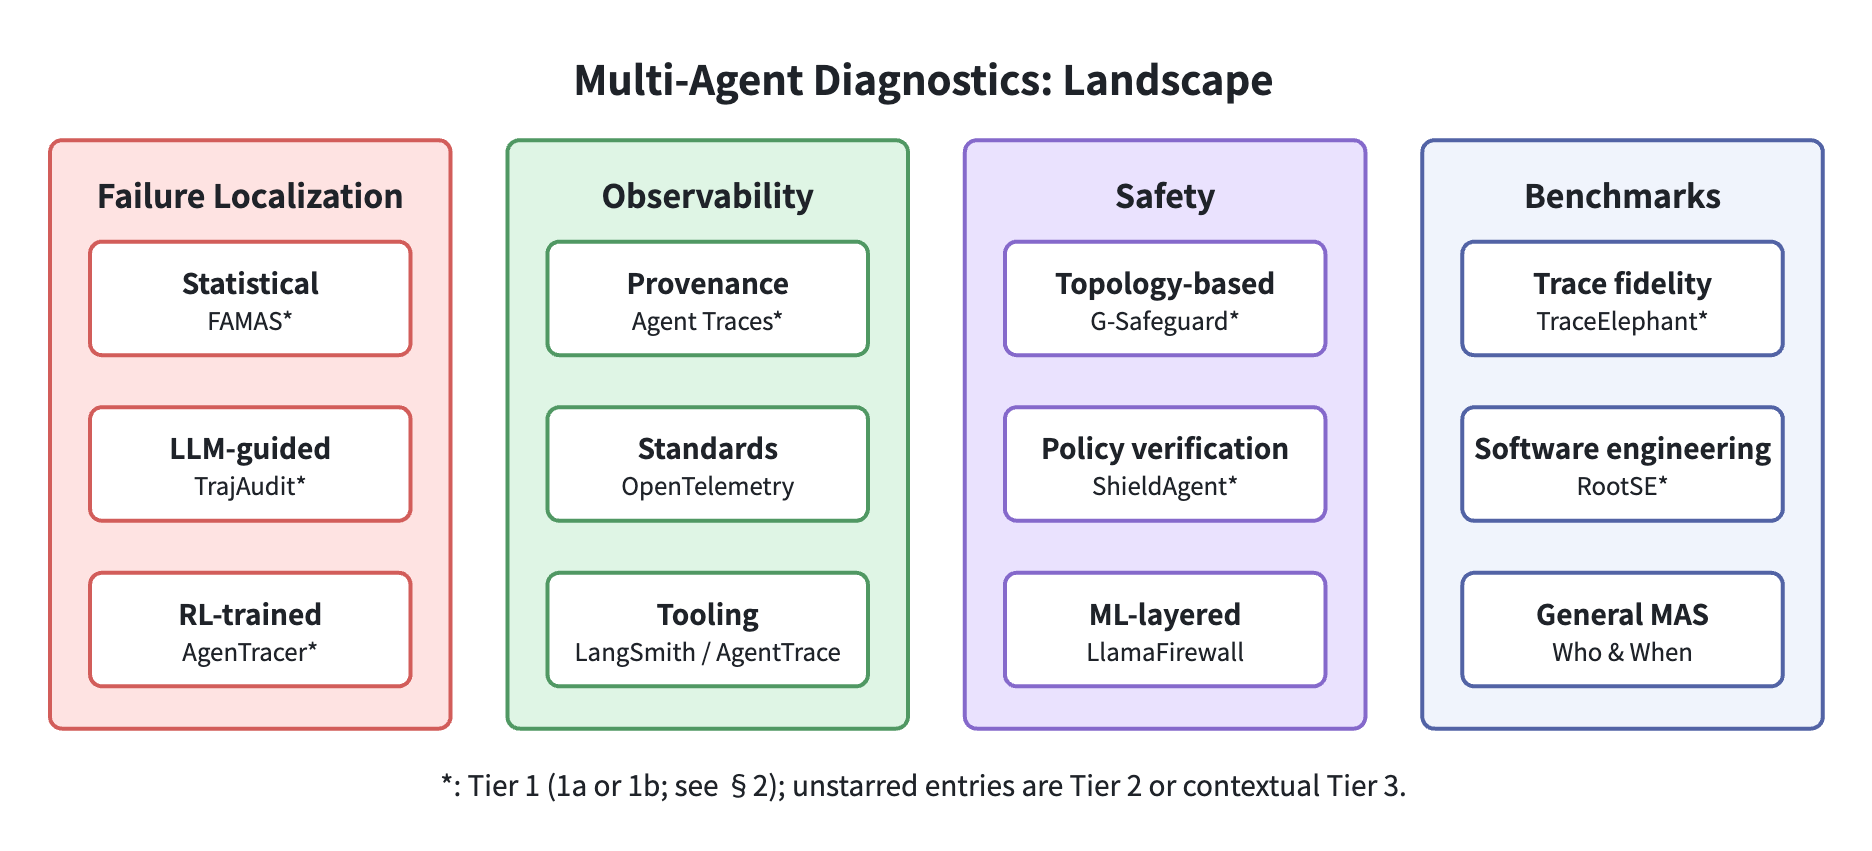
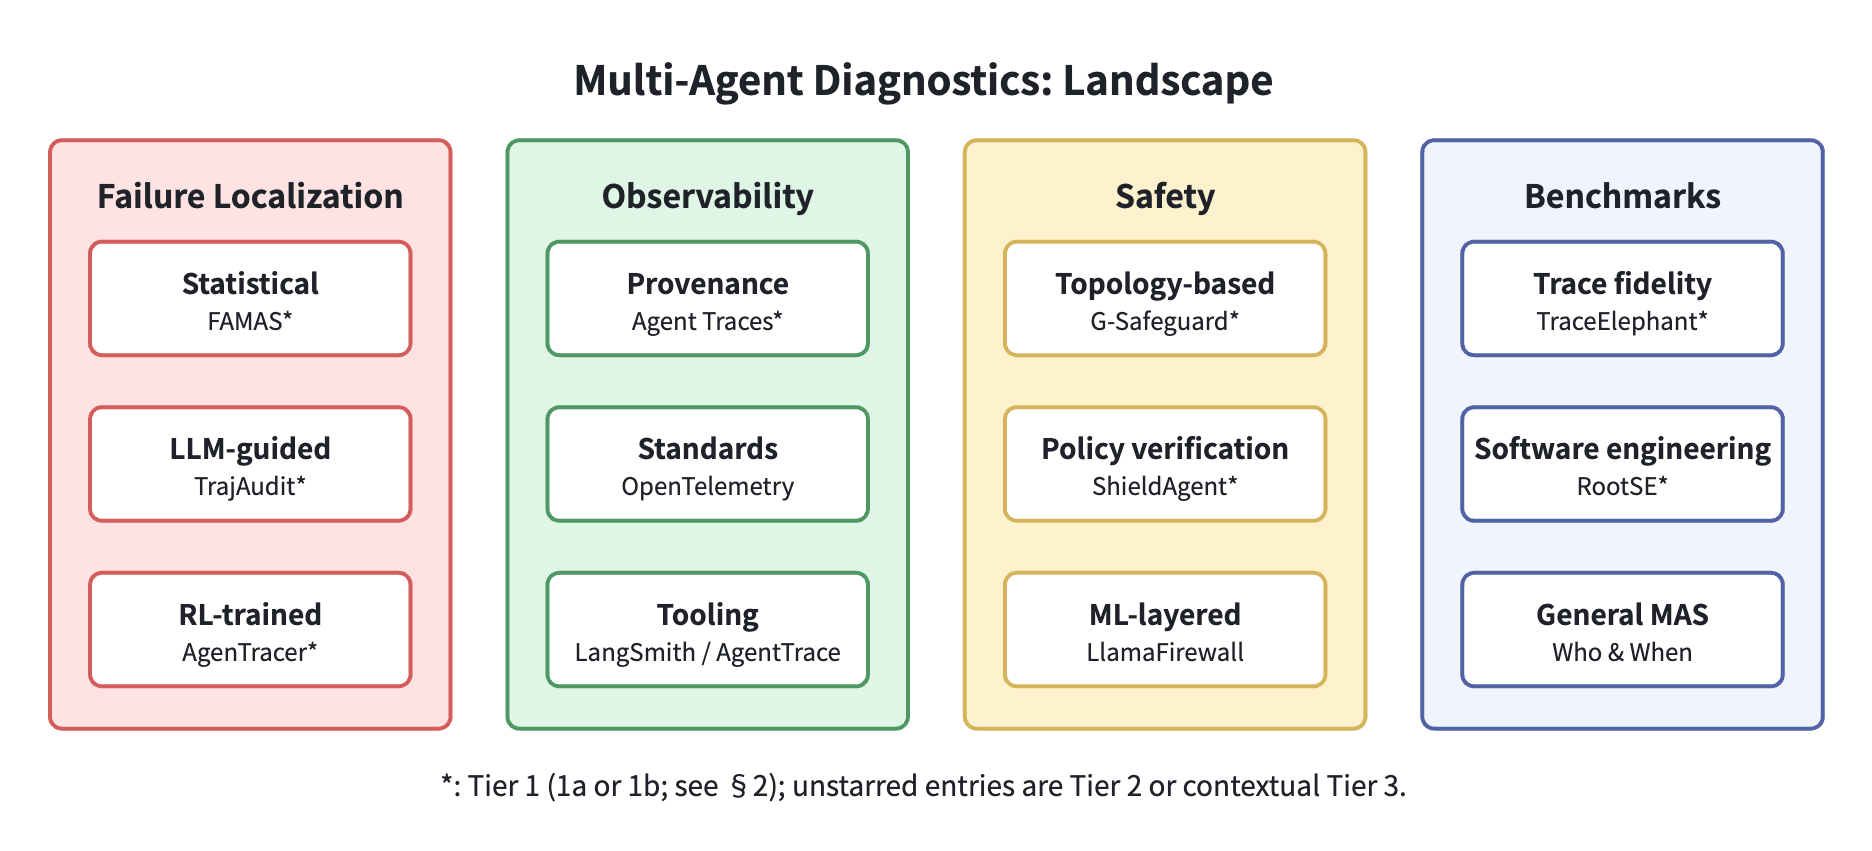
Updates from Overleaf

Changed region(s): [[0.4957, 0.1528, 0.7436, 0.886]]

diff --git a/discussion.tex b/discussion.tex
@@ -38,7 +38,7 @@ Four limitations bound this review. First, it is a curated critical review rathe
 
 \begin{figure*}[t]
 \centering
-\includegraphics[width=\textwidth]{fig6_codesign_agenda.pdf}
+\includegraphics[width=\textwidth]{figure6.png}
 \caption{Co-design research agenda derived from the diagnostics--infrastructure tension. The four directions translate the tension dimensions summarized in Table~\ref{tab:tension} into testable research questions at the boundary between the two layers.}
 \label{fig:codesign}
 \end{figure*}
